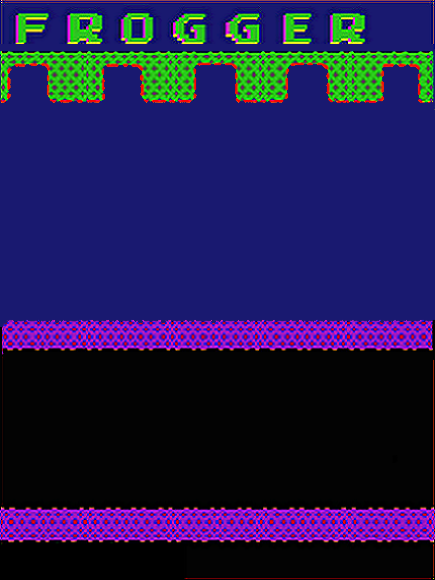
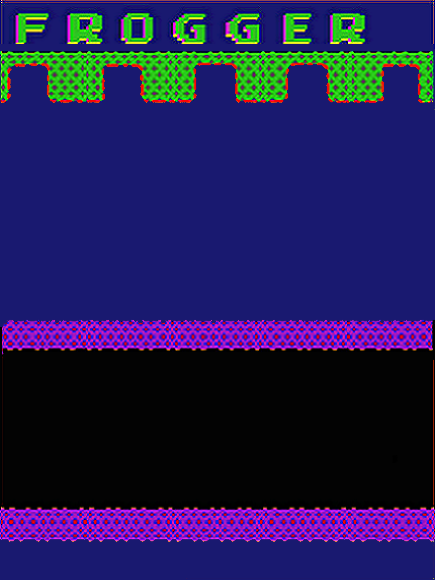
Add High Score Board

Changed region(s): [[0.0, 0.931, 1.0, 1.0]]

diff --git a/src/main/java/frogger/model/Map.java b/src/main/java/frogger/model/Map.java
@@ -18,6 +18,7 @@ public abstract class Map {
 	private ArrayList<WetTurtle> wetTurtles;
 	private ArrayList<End> ends;
 	private ArrayList<Digit> scoreBoard;
+	private ArrayList<Digit> highScoreBoard;
 	private Frog animal;
 	private String backgroundImage;
 	
@@ -28,13 +29,15 @@ public abstract class Map {
 		wetTurtles = new ArrayList<>();
 		ends = new ArrayList<>();
 		scoreBoard = new ArrayList<>();
+		highScoreBoard = new ArrayList<>();
 		initMap();
 	}
 	
 	public void initMap() {
 		createAnimal();
 		createEnd();
-		createDigit();
+		createScoreBoard();
+		createHighScoreBoard();
 		createObstacles();
 		createLogs();
 		createTurtles();
@@ -59,10 +62,16 @@ public abstract class Map {
 		ends.add(new End(60,139 + 139-11+139-11+139-11+3,85));
 	}
 	
-	public void createDigit() {
-		scoreBoard.add(new Digit(0, 30, 565, 25));
-		scoreBoard.add(new Digit(0, 30, 535, 25));
-		scoreBoard.add(new Digit(0, 30, 505, 25));
+	public void createScoreBoard() {
+		scoreBoard.add(new Digit(0, 30, 565, 750));
+		scoreBoard.add(new Digit(0, 30, 535, 750));
+		scoreBoard.add(new Digit(0, 30, 505, 750));
+	}
+	
+	public void createHighScoreBoard() {
+		highScoreBoard.add(new Digit(0, 30, 365, 750));
+		highScoreBoard.add(new Digit(0, 30, 335, 750));
+		highScoreBoard.add(new Digit(0, 30, 305, 750));
 	}
 
 	public ArrayList<Log> getLogs() {
@@ -87,6 +96,10 @@ public abstract class Map {
 	
 	public ArrayList<Digit> getScoreBoard(){
 		return scoreBoard;
+	}
+	
+	public ArrayList<Digit> getHighScoreBoard(){
+		return highScoreBoard;
 	}
 
 	public Frog getAnimal() {

diff --git a/src/main/java/frogger/view/GameView.java b/src/main/java/frogger/view/GameView.java
@@ -2,7 +2,10 @@ package frogger.view;
 
 import frogger.model.Map;
 import frogger.util.MapFactory;
+import javafx.scene.control.Label;
 import javafx.scene.layout.Pane;
+import javafx.scene.paint.Color;
+import javafx.scene.text.Font;
 
 public class GameView {
 	private Pane background;
@@ -49,7 +52,16 @@ public class GameView {
 		background.getChildren().addAll(map.getObstacles());
 	}
 	
-	public void drawDigit() {
+	public void drawScoreBoard() {
+//		Label label = new Label("Hello world!");
+//        label.setFont(new Font("Arial", 30));
+//        label.setLayoutX(400);
+//        label.setLayoutY(750);
+//		background.getChildren().add(label);
 		background.getChildren().addAll(map.getScoreBoard());
+	}
+	
+	public void drawHighScoreBoard() {
+		background.getChildren().addAll(map.getHighScoreBoard());
 	}
 }

diff --git a/src/main/java/frogger/util/MapLoader.java b/src/main/java/frogger/util/MapLoader.java
@@ -12,6 +12,7 @@ public class MapLoader {
 		gameView.drawEnd();
 		gameView.drawAnimal();
 		gameView.drawObstacle();
-		gameView.drawDigit();
+		gameView.drawScoreBoard();
+		gameView.drawHighScoreBoard();
 	}
 }
